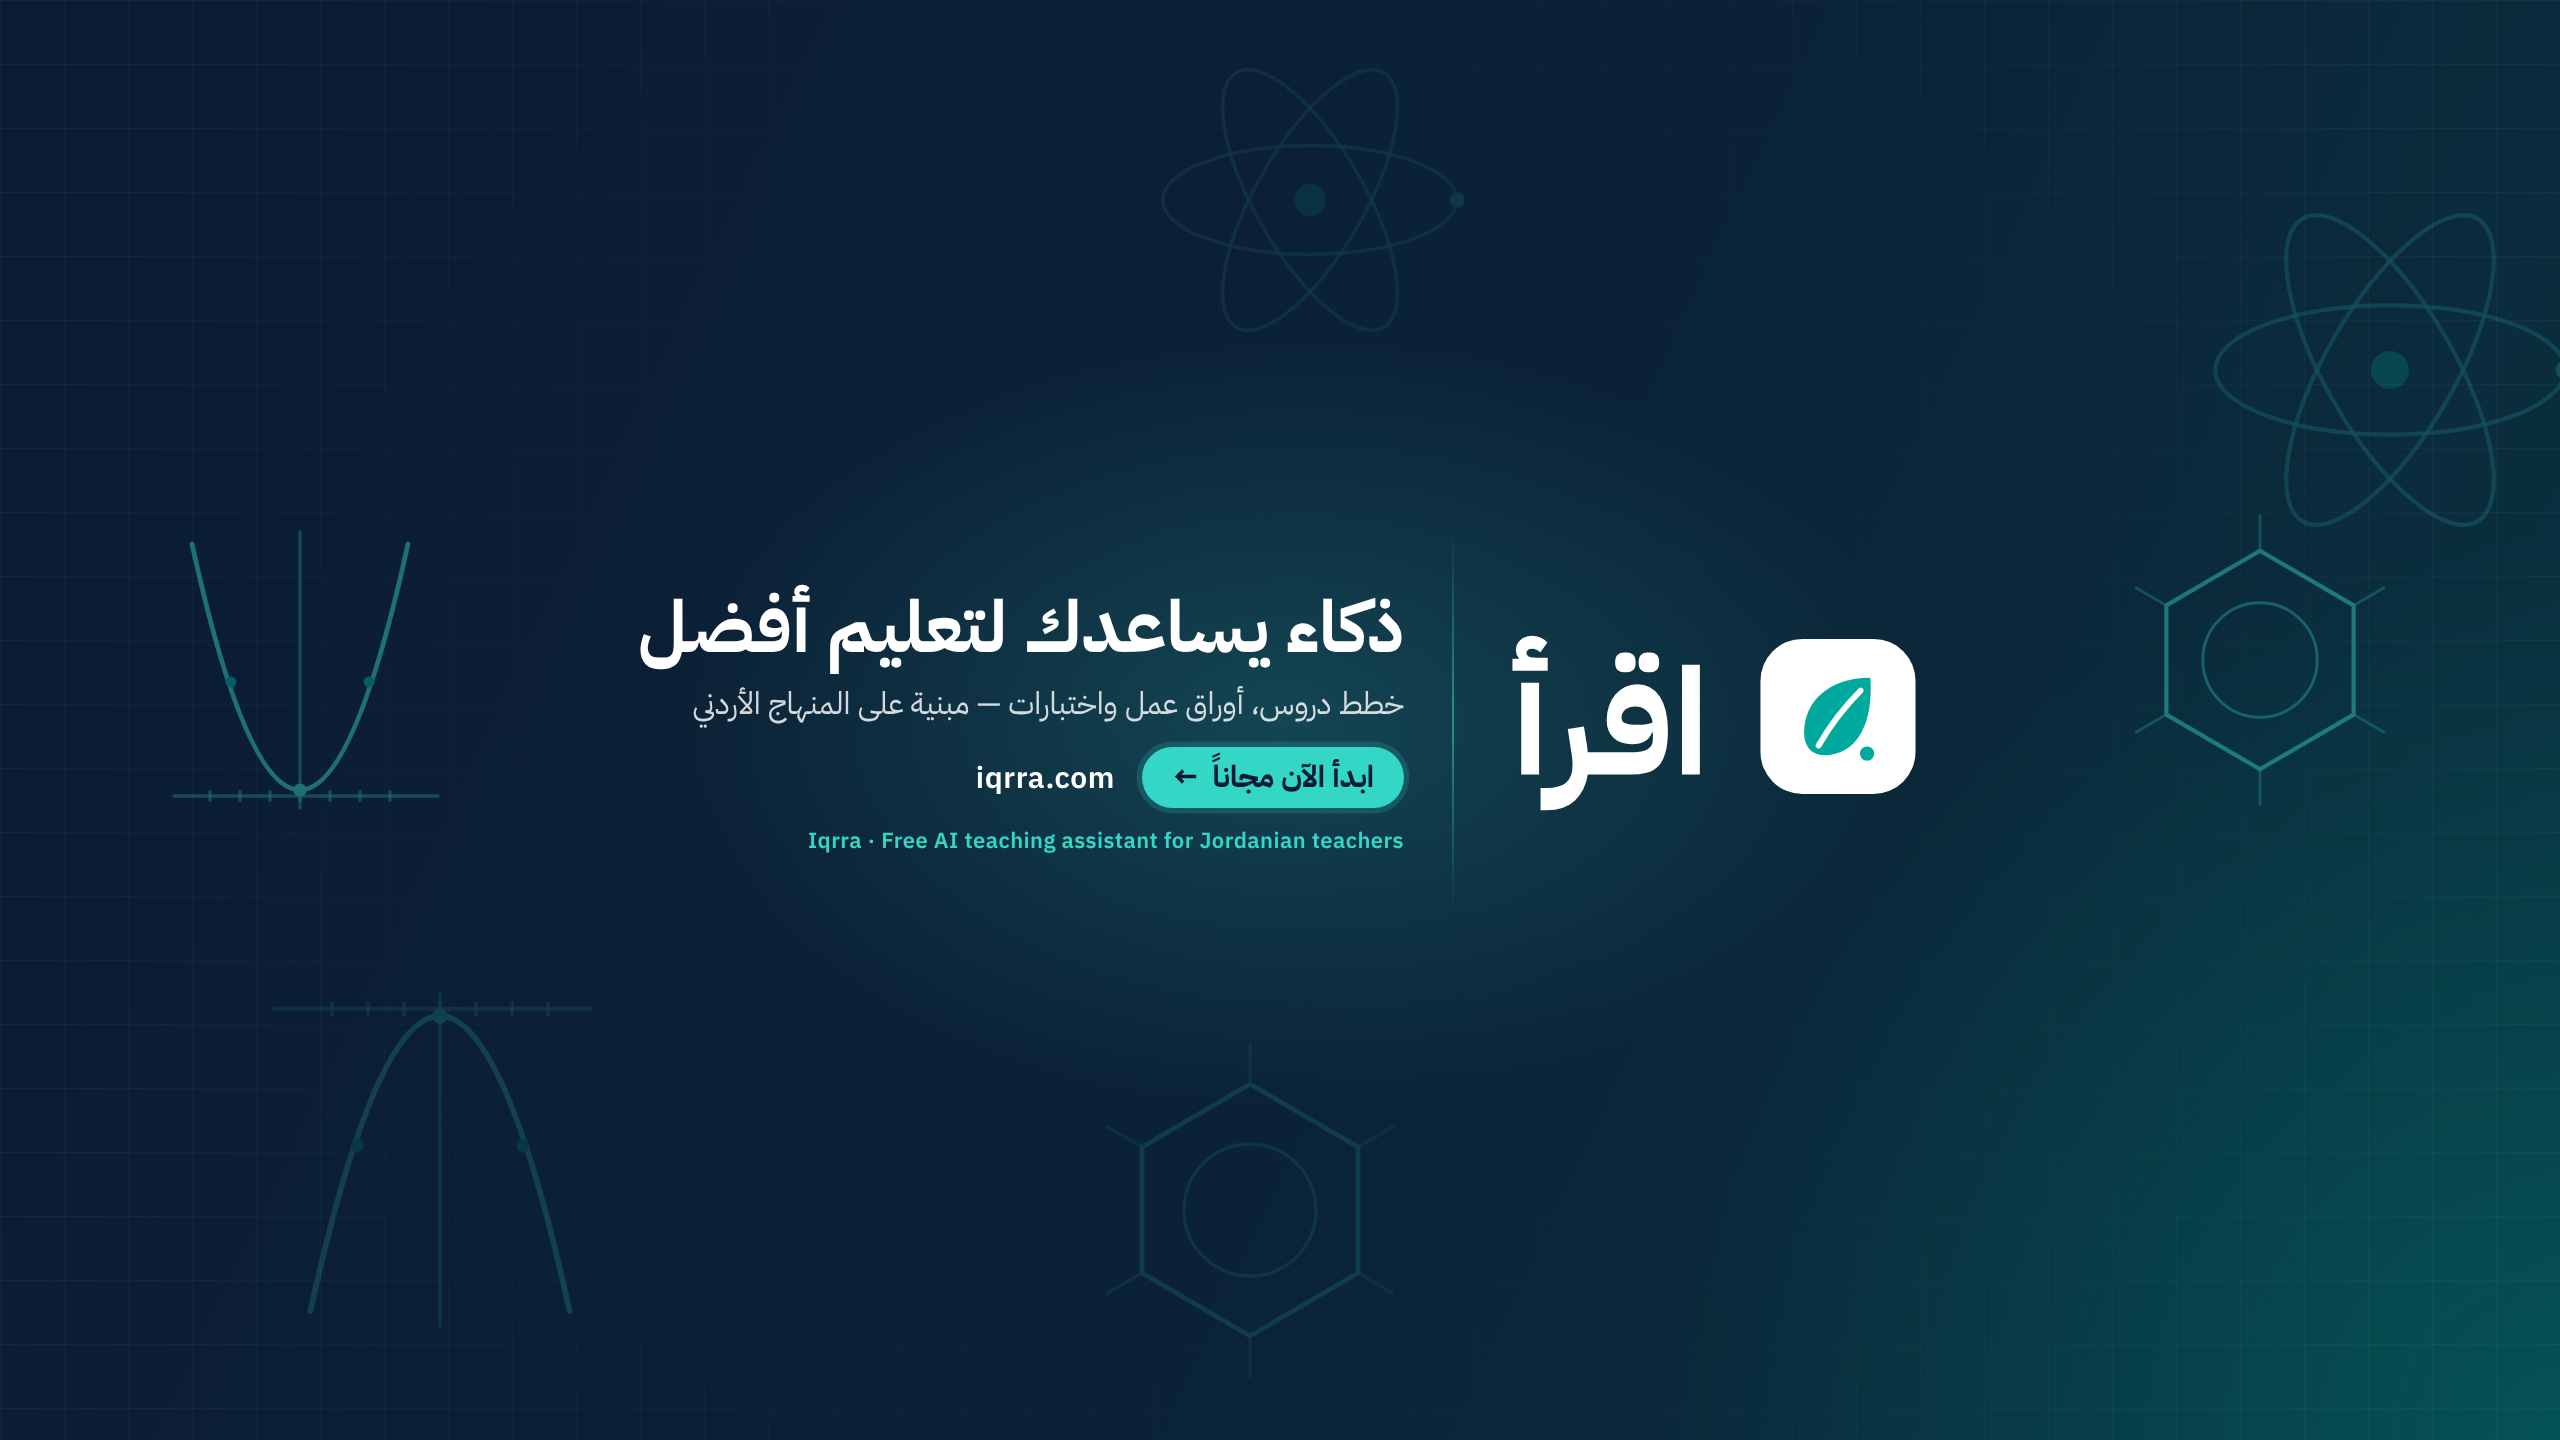
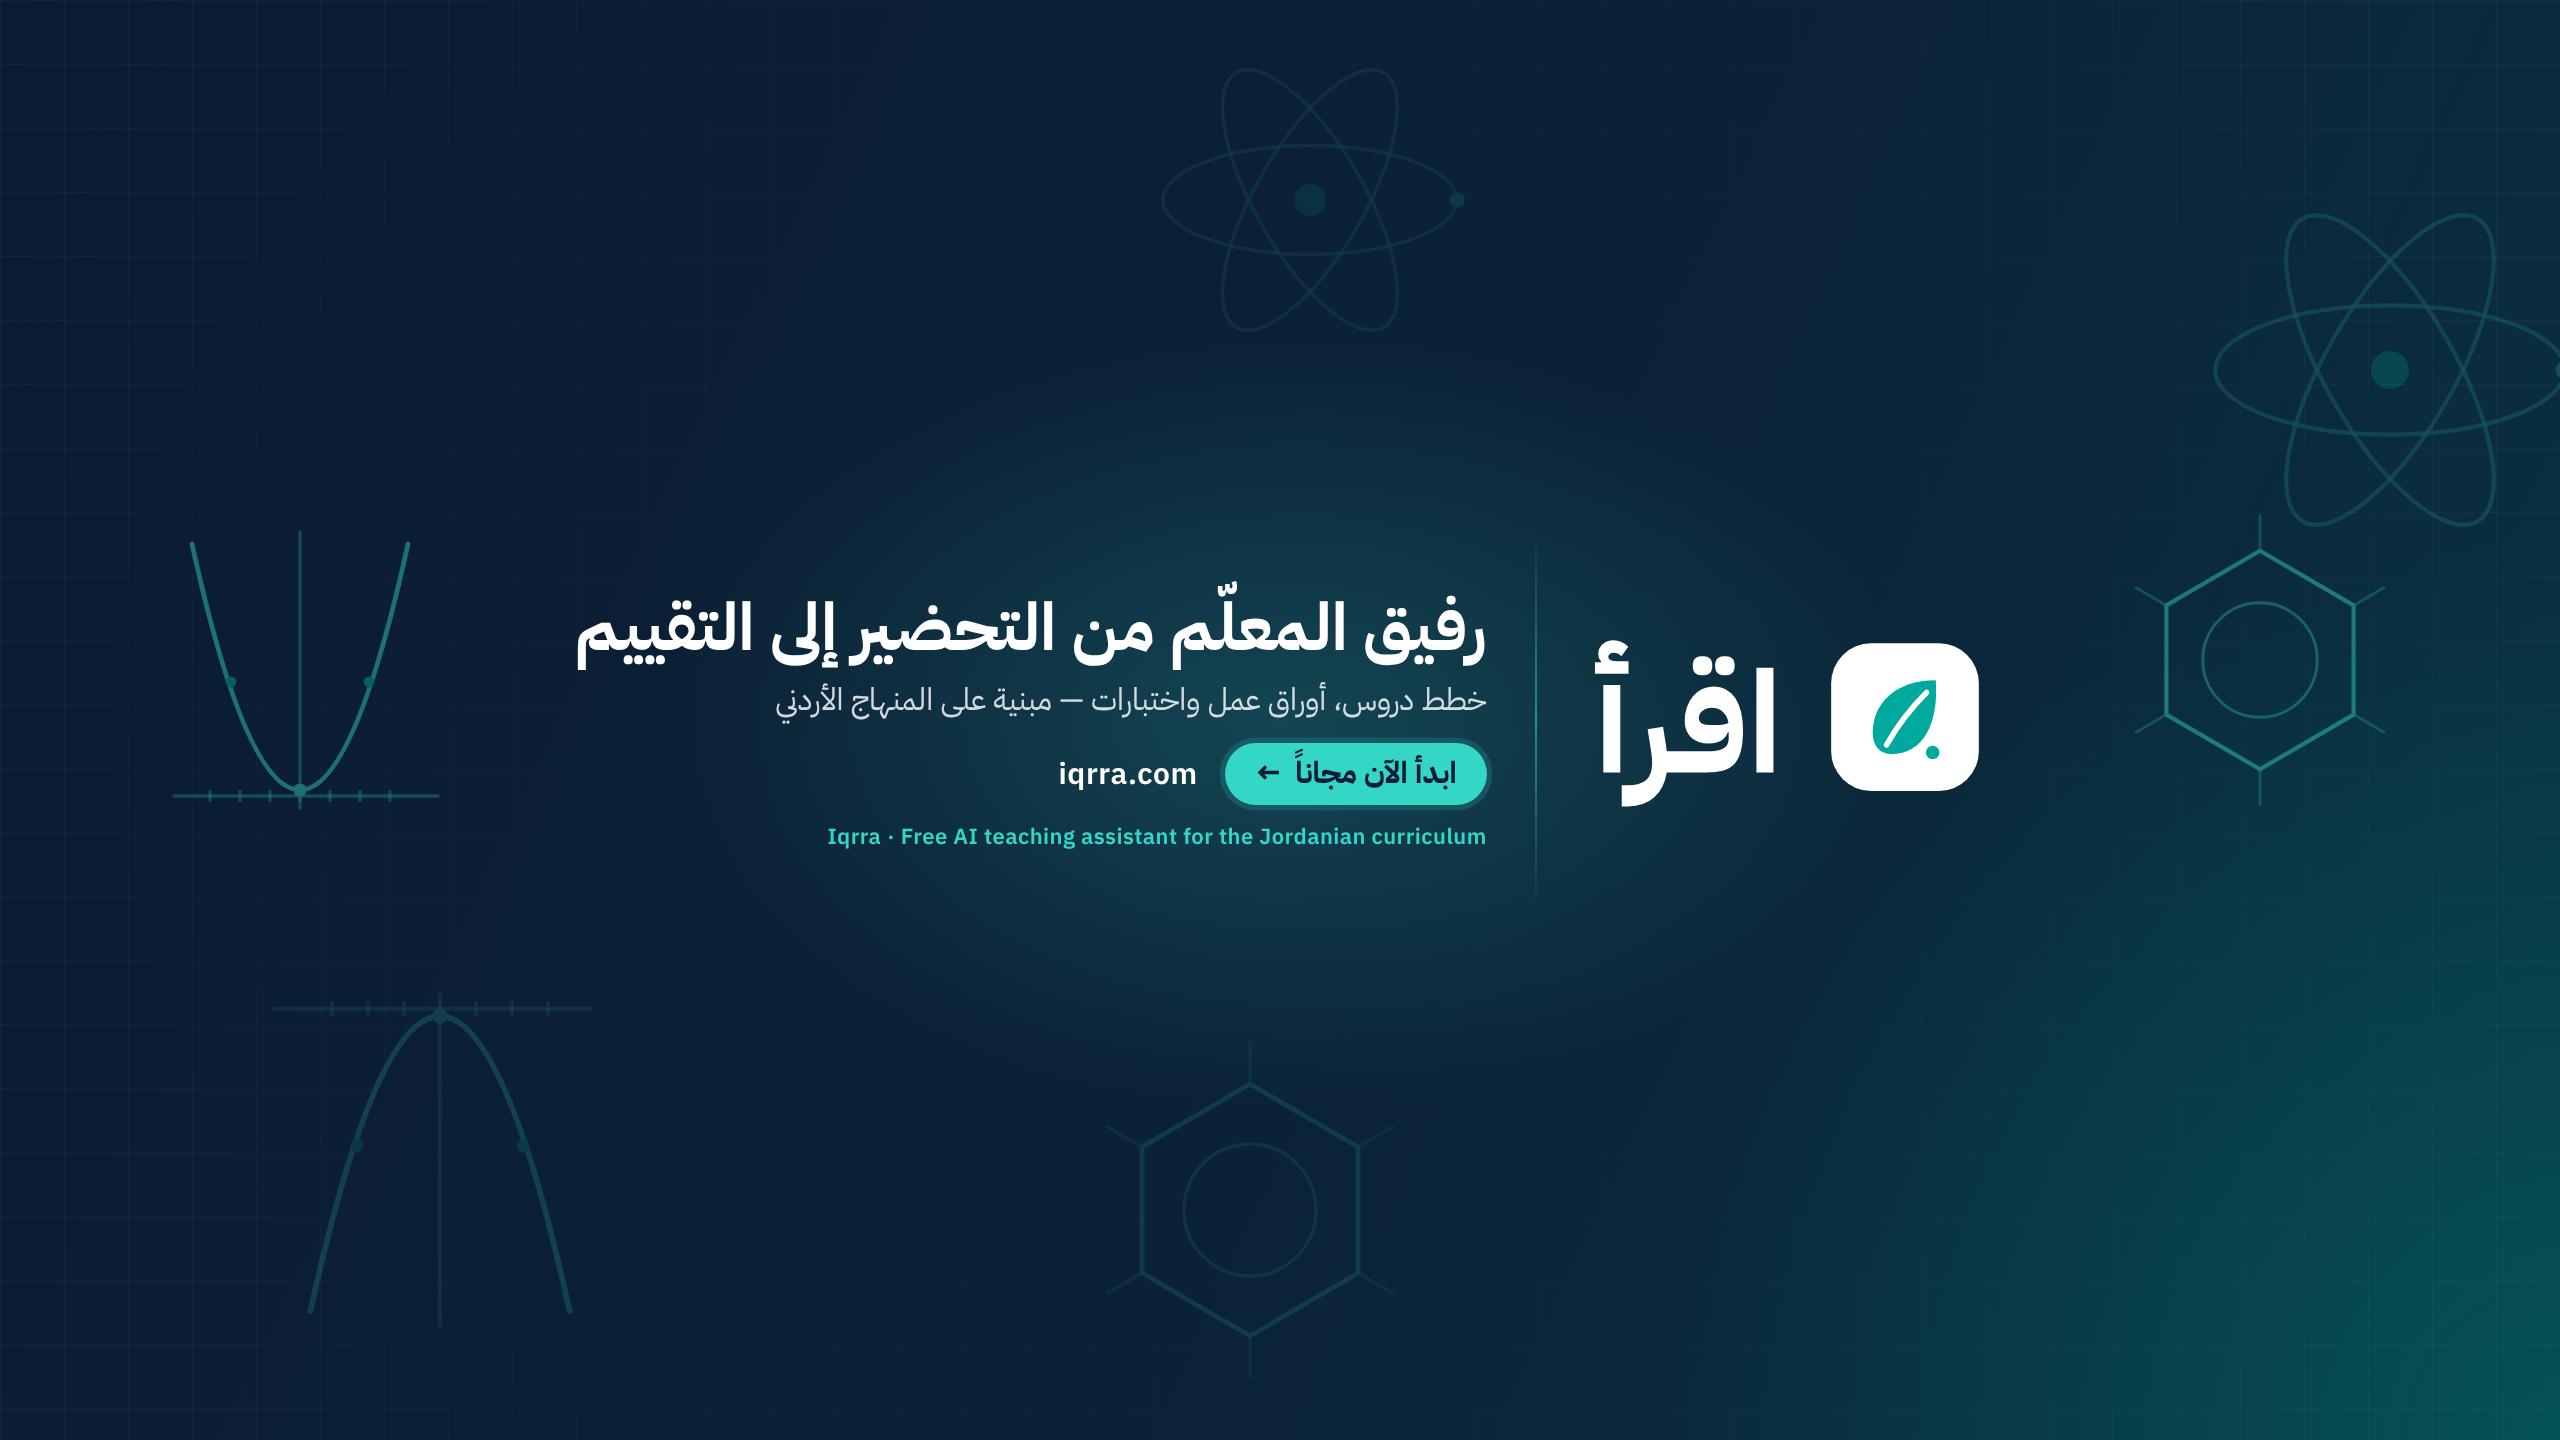
Social covers: new tagline, and name the Jordanian curriculum in English
The tagline is now «رفيق المعلّم من التحضير إلى التقييم», kept on one
line (YouTube and LinkedIn profile type sized down to fit). The English
line reads "Free AI teaching assistant for the Jordanian curriculum", so
every cover names the curriculum in both languages.

Claude-Session: https://claude.ai/code/session_01VikuhZYoNHn8HSWbcaV28N

Changed region(s): [[0.2188, 0.4062, 0.7812, 0.5938]]

diff --git a/marketing/social-covers/covers.html b/marketing/social-covers/covers.html
@@ -21,7 +21,7 @@ html,body{background:var(--ink)}
 .row{flex-direction:row;direction:rtl}
 .text{direction:rtl}
 .row .text{text-align:right}
-.tag{font-weight:700;line-height:1.25;letter-spacing:0}
+.tag{font-weight:700;line-height:1.25;letter-spacing:0;white-space:nowrap}
 .sub{font-weight:400;color:rgba(255,255,255,.82);line-height:1.5}
 .en{direction:ltr;font-weight:600;color:var(--aqua);letter-spacing:.02em;white-space:nowrap}
 .url{direction:ltr;font-weight:600;color:#fff;letter-spacing:.02em}
@@ -87,9 +87,9 @@ const art=(name,x,y,size,op=.5,rot=0)=>
   `<svg style="position:absolute;left:${x}px;top:${y}px;opacity:${op};transform:rotate(${rot}deg);overflow:visible" width="${size}" height="${size}" viewBox="0 0 100 100">${ART[name]}</svg>`;
 
 const COPY={
-  tag:'ذكاء يساعدك لتعليم أفضل',
+  tag:'رفيق المعلّم من التحضير إلى التقييم',
   sub:'خطط دروس، أوراق عمل واختبارات — مبنية على المنهاج الأردني',
-  en:'Free AI teaching assistant for Jordanian teachers',
+  en:'Free AI teaching assistant for the Jordanian curriculum',
   cta:'ابدأ الآن مجاناً',
   url:'iqrra.com',
 };
@@ -116,7 +116,7 @@ const SPECS={
       {k:'band',x:352,y:508,w:1856,h:424,t:'Tablet — 1855 × 423',bottom:true},
       {k:'safe',x:507,y:508,w:1546,h:424,t:'Safe on every device — 1546 × 423'},
     ],
-    content:{x:560,y:528,w:1440,h:384,layout:'row',logo:420,tag:72,sub:31,en:22,url:30,cta:30,gap:16},
+    content:{x:560,y:528,w:1440,h:384,layout:'row',logo:400,tag:66,sub:31,en:22,url:30,cta:30,gap:16},
     art:[['parabola',150,520,300,.45],['benzene',2130,530,260,.45],
          ['orbit',2200,180,380,.22],['parabola',260,980,360,.18,180],['benzene',1100,1060,300,.14],['orbit',1150,40,320,.12]],
   },
@@ -137,7 +137,7 @@ const SPECS={
       {k:'avoid',x:0,y:170,w:540,h:226,t:'Profile photo'},
       {k:'safe',x:560,y:30,w:990,h:336,t:'Clear of the photo'},
     ],
-    content:{x:590,y:46,w:940,h:304,layout:'row',logo:290,tag:44,sub:22,url:23,cta:23,gap:11},
+    content:{x:590,y:46,w:940,h:304,layout:'row',logo:280,tag:40,sub:22,url:23,cta:23,gap:11},
     art:[['benzene',70,26,130,.45],['orbit',300,40,110,.3]],
   },
 };

diff --git a/marketing/social-covers/README.md b/marketing/social-covers/README.md
@@ -17,10 +17,10 @@ the phone app.
 
 ## The copy
 
-- «ذكاء يساعدك لتعليم أفضل» is the existing tagline.
+- «رفيق المعلّم من التحضير إلى التقييم», "the teacher's companion, from prep to assessment".
 - «خطط دروس، أوراق عمل واختبارات — مبنية على المنهاج الأردني»
 - A call-to-action button, «ابدأ الآن مجاناً ←» ("start now for free"), beside `iqrra.com`. The arrow points left, the direction you read Arabic in.
-- *Iqrra · Free AI teaching assistant for Jordanian teachers*. This line is left off the LinkedIn banners: LinkedIn shows them at about half size, so it would render at roughly 8 px.
+- *Iqrra · Free AI teaching assistant for the Jordanian curriculum*. Every cover names the Jordanian curriculum, in Arabic in the line above and here in English. This line is left off the LinkedIn banners: LinkedIn shows them at about half size, so it would render at roughly 8 px.
 
 ## Rebuilding
 
